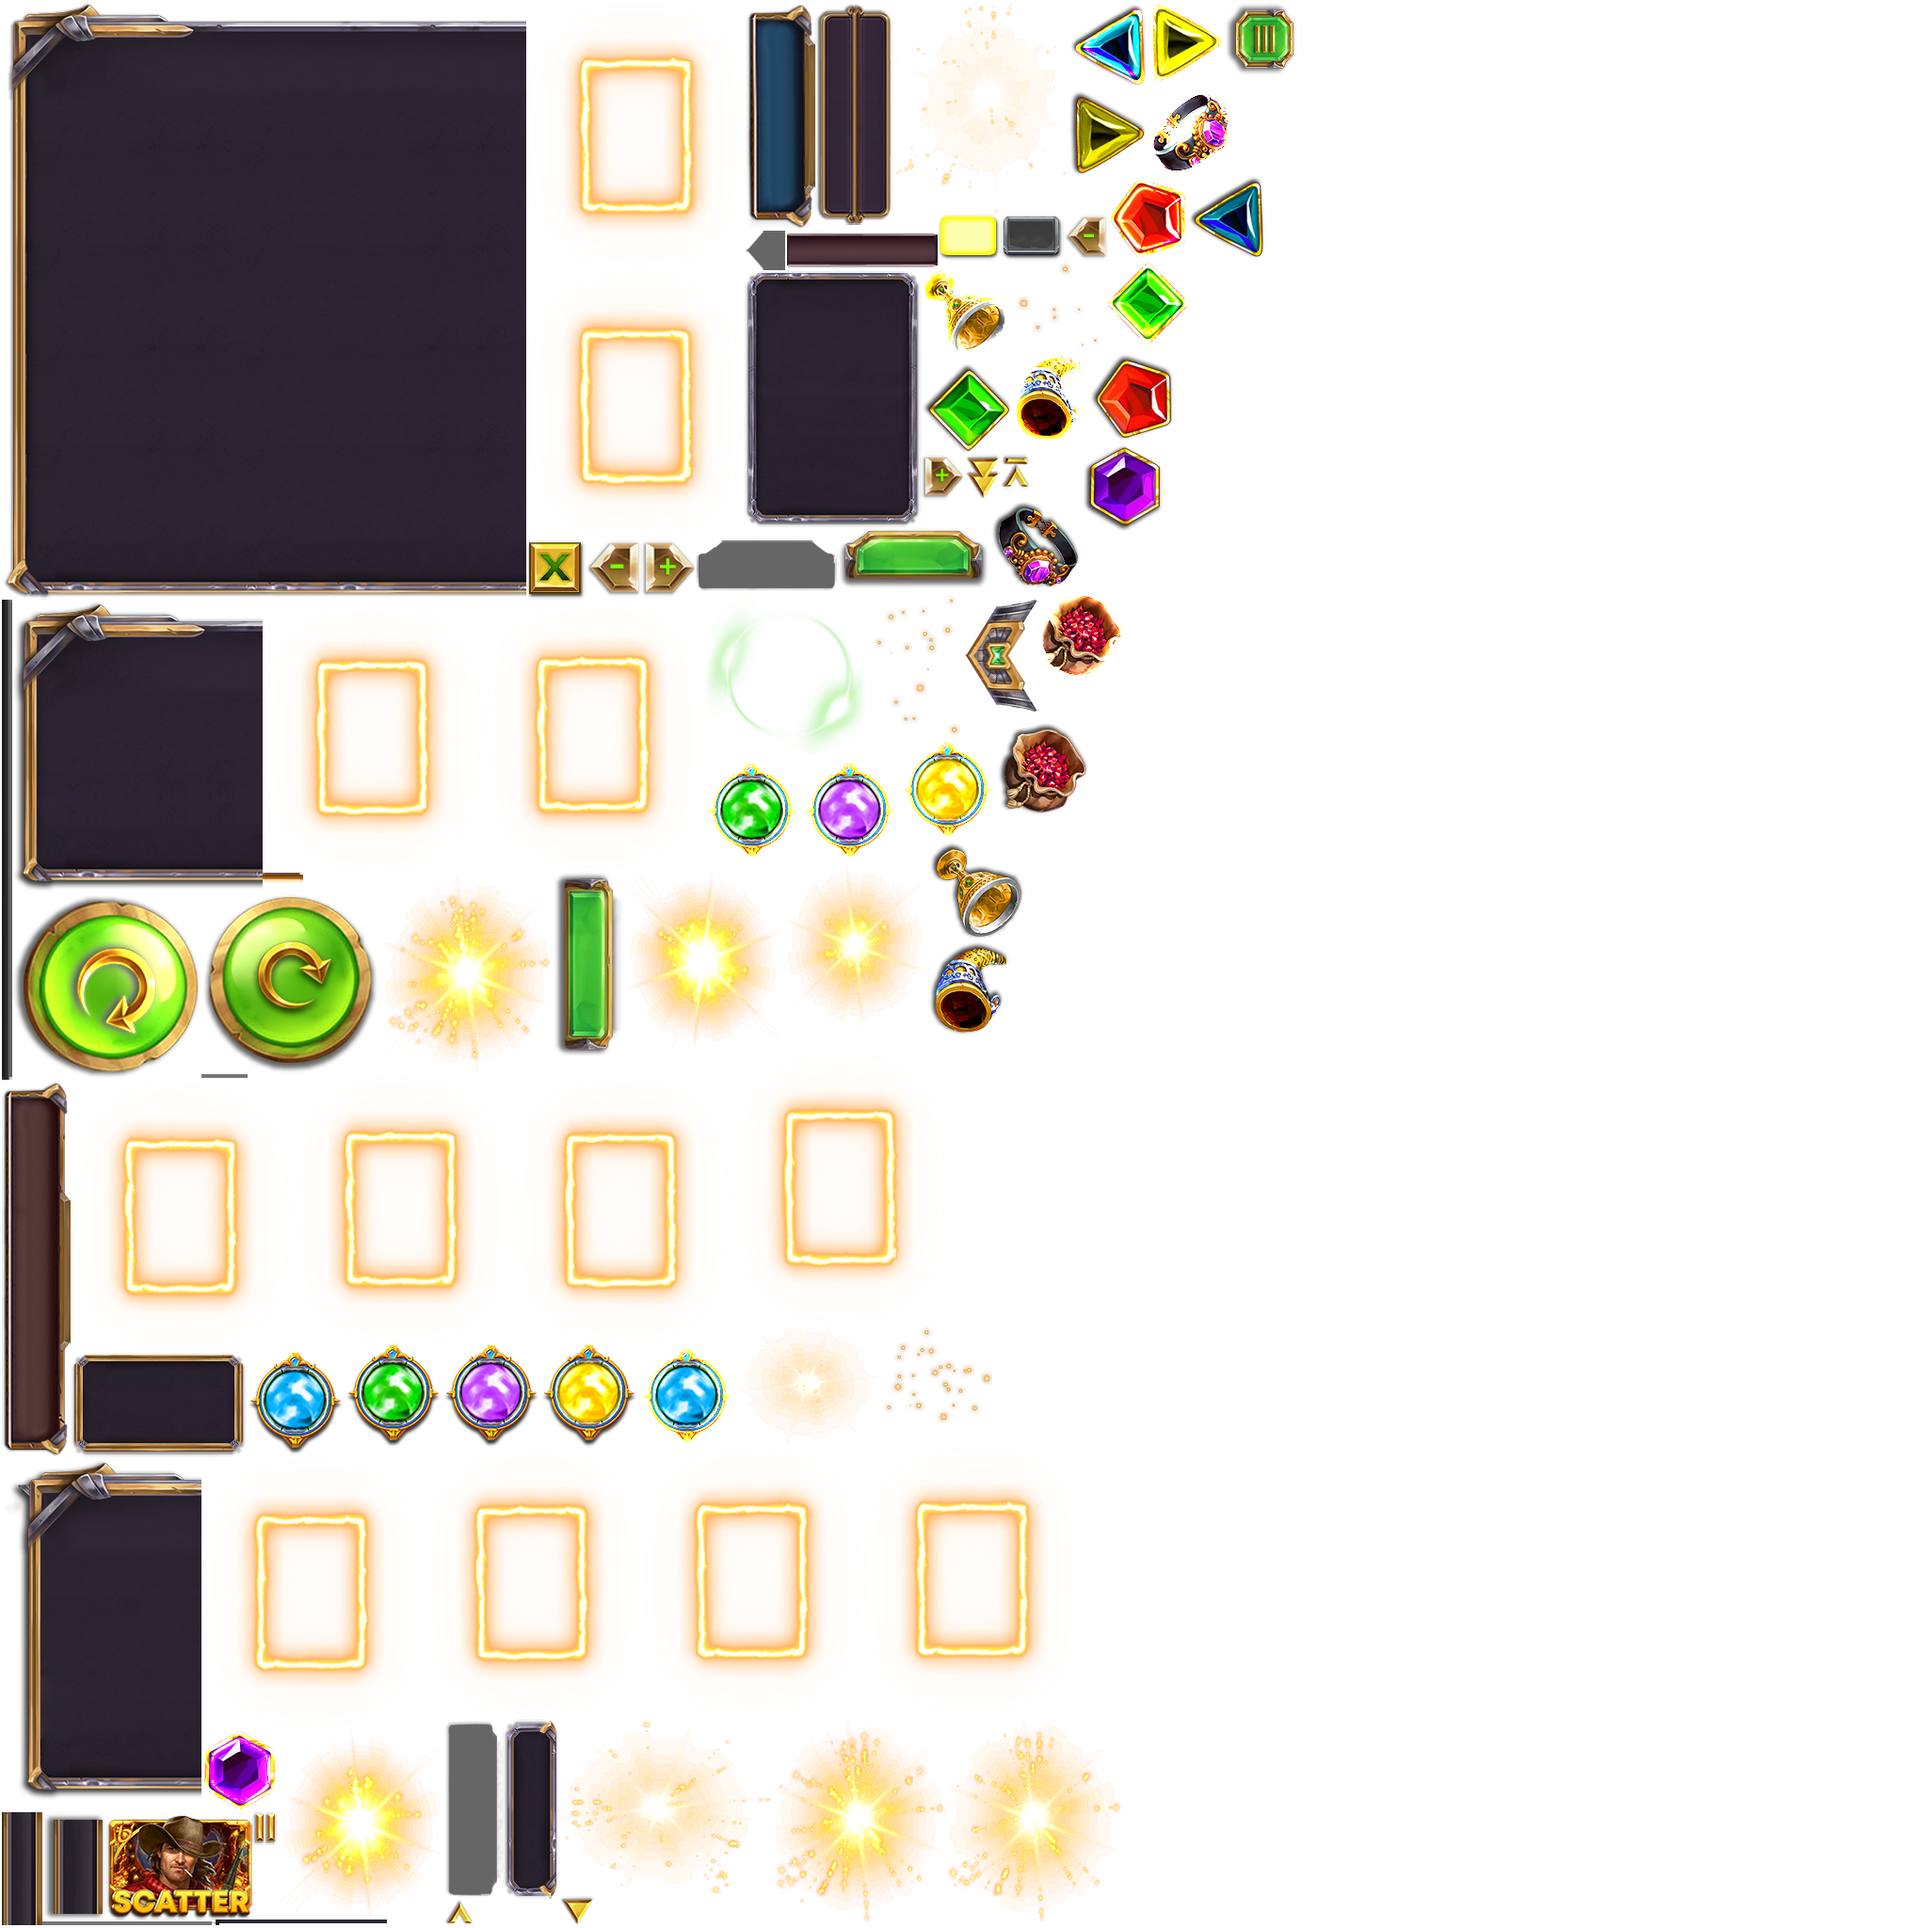
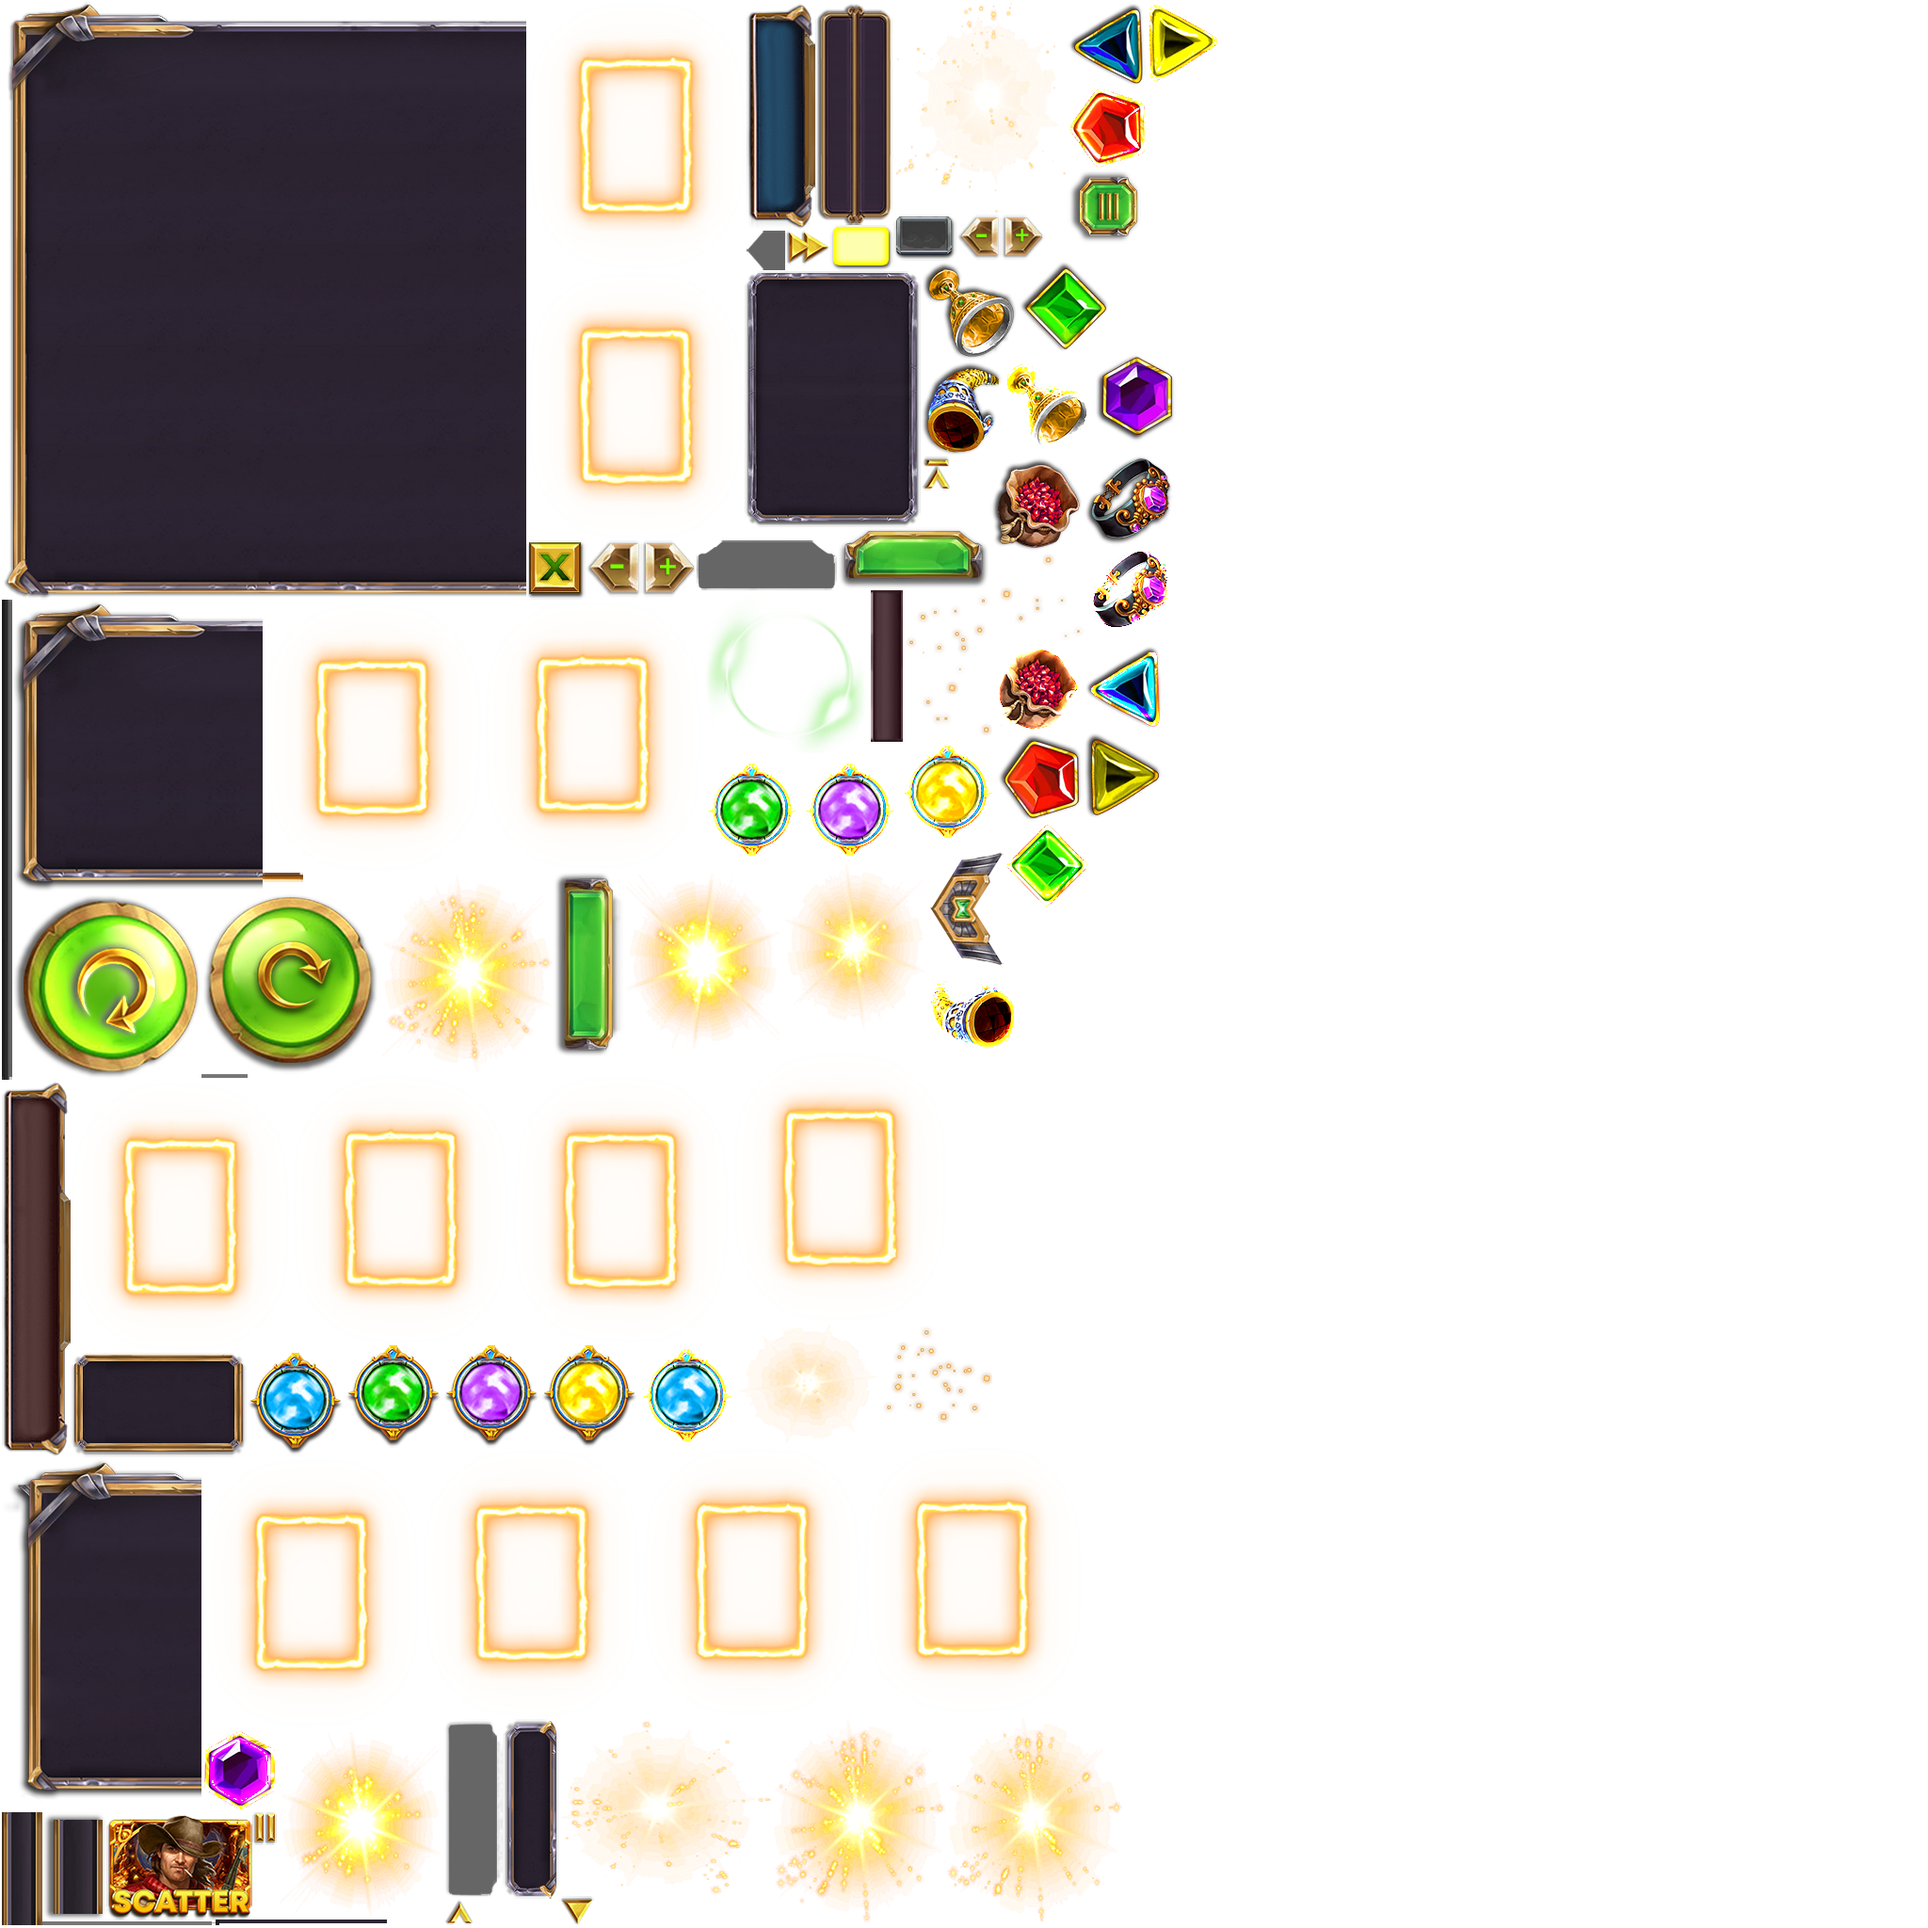
feat: change img symbolwin-frame

Changed region(s): [[0.4062, 0.0, 0.6875, 0.5625]]

diff --git a/0_texturepacker/pack-resources.py b/0_texturepacker/pack-resources.py
@@ -8,7 +8,7 @@ if __name__ == '__main__':
     current_dir = os.path.dirname(os.path.realpath(__file__))
     project_dir = os.path.join(current_dir, '..')
 
-    images_dir = 'button-new-style'
+    images_dir = 'treasure-island'
 
     # Pack.
     packer_path = os.path.join(
